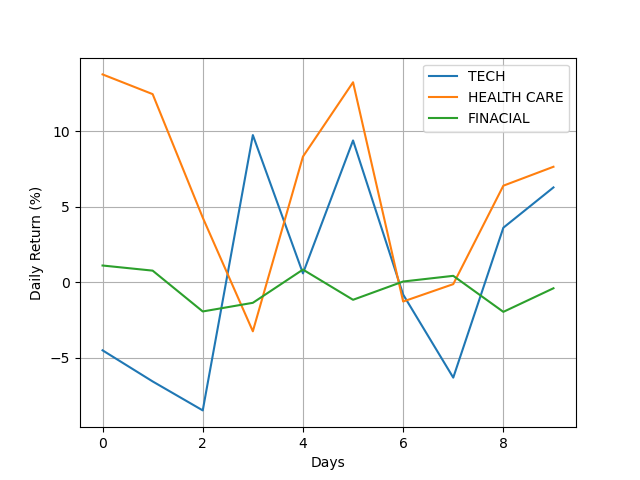
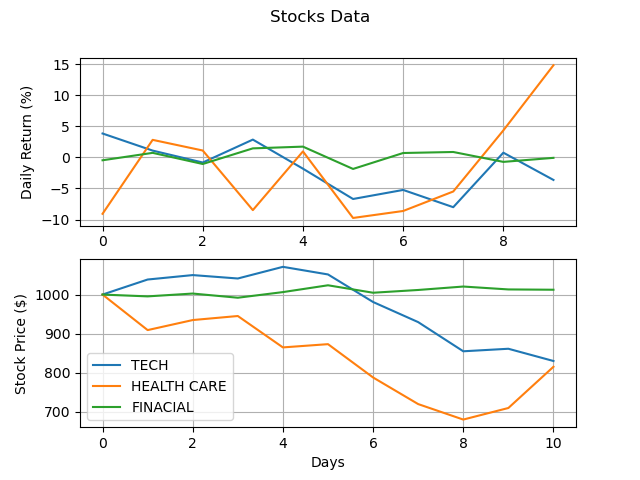
Add Stock Price Graph

diff --git a/src.py b/src.py
@@ -20,16 +20,28 @@ def get_daily_return_value(stock_price, volatility):
     return new_stock_price, daily_return * 100
 
 def plot_graph_from_dataframe(df, days_of_data):
-    x = list(range(days_of_data))
+    fig, axs = plt.subplots(2)
+    fig.suptitle('Stocks Data')
+
+    x_daily_return = list(range(days_of_data))
+    x_stock_price = x_daily_return[:]
+    x_stock_price.append(len(x_daily_return))
     for column in df.columns:
-        y = df[column]
-        plt.plot(x, y)
+        y_daily_return = df[column]
+        axs[0].plot(x_daily_return, y_daily_return)
+        axs[0].grid()
+        axs[0].set_ylabel('Daily Return (%)')
+
+        y_stock_price = [1000]
+        for i, daily_return in enumerate(y_daily_return):
+            y_stock_price.append(y_stock_price[i] * (1+daily_return/100))
+        axs[1].plot(x_stock_price, y_stock_price)
+        axs[1].grid()
+        axs[1].set_xlabel('Days')
+        axs[1].set_ylabel('Stock Price ($)')
+        axs[1].legend(df.columns)
     
-    plt.grid()
-    plt.xlabel('Days')
-    plt.ylabel('Daily Return (%)')
-    plt.legend(df.columns)
-    plt.savefig(f'output/Sample-{len(df.columns)}stocks-{days_of_data}days.png')
+    fig.savefig(f'output/Sample-{len(df.columns)}stocks-{days_of_data}days.png')
 
 if __name__ == "__main__":
     create_directory('output')
@@ -45,7 +57,7 @@ if __name__ == "__main__":
         df[stock_name] = pd.Series([], dtype=np.float64)
         for i in range(days_of_data): 
             stock_price, daily_return = get_daily_return_value(stock_price, volatility[k]) # 2%
-            df.loc[i, stock_name] = daily_return 
+            df.loc[i, stock_name] = daily_return
     df = df.drop(['Placeholder'], axis=1)
     print(df)
 
